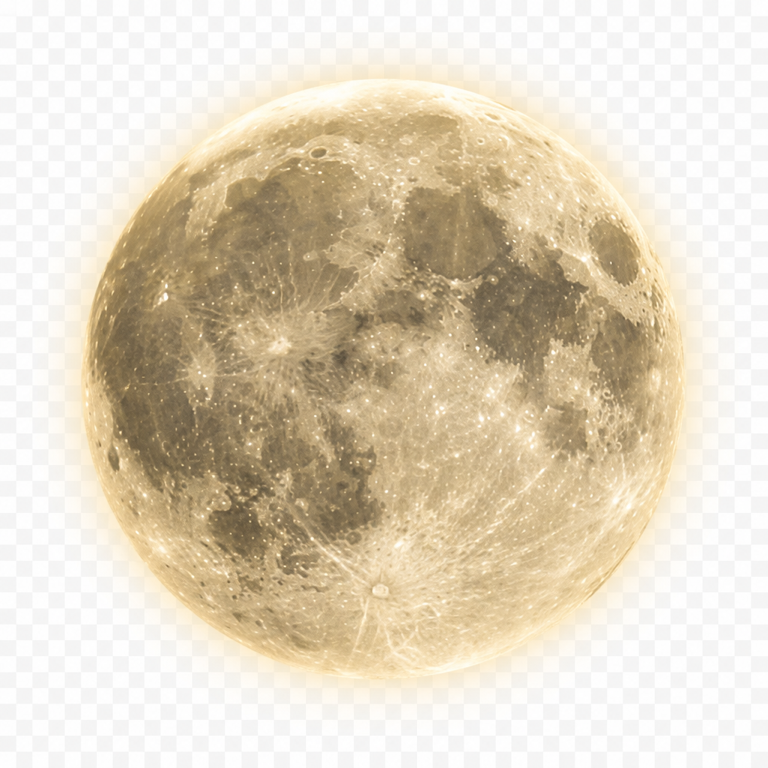
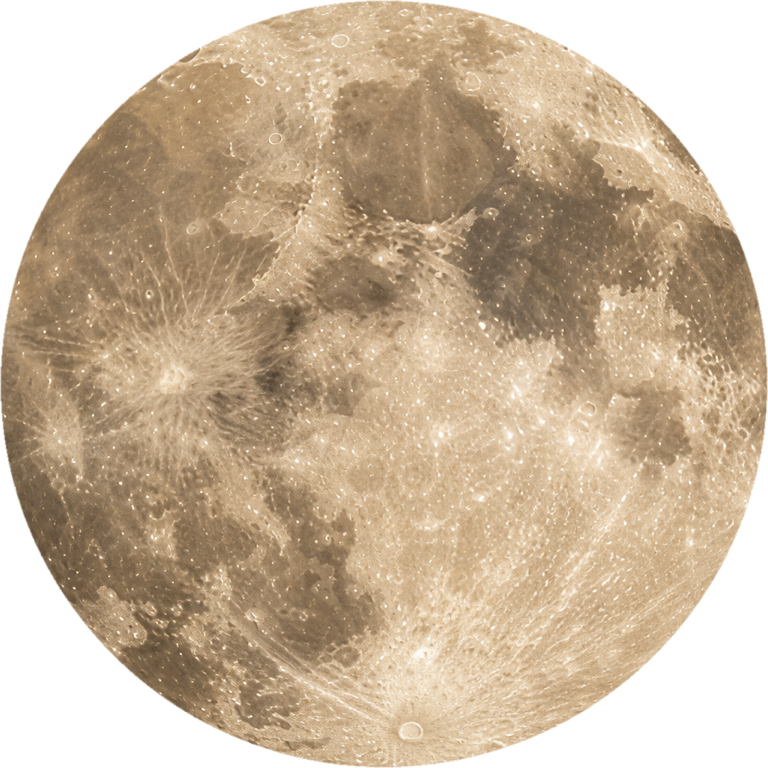
Fix moon asset to fill the sky disc.
Replace the checkerboard-padded PNG with a tight circular moon and CSS cover + halo so no empty white ring shows.

diff --git a/src/App.css b/src/App.css
@@ -57,13 +57,17 @@
   width: clamp(7rem, 14vw, 11rem);
   height: clamp(7rem, 14vw, 11rem);
   border-radius: 50%;
-  background:
-    url('/moon.png') center / contain no-repeat;
+  overflow: hidden;
+  background-color: transparent;
+  background-image: url('/moon.png');
+  background-position: center;
+  background-size: cover;
+  background-repeat: no-repeat;
+  /* Soft halo only in CSS — not baked into the PNG */
   box-shadow:
-    0 0 36px 14px rgba(245, 220, 170, 0.2),
-    0 0 90px 36px rgba(232, 190, 120, 0.1);
-  opacity: 0.92;
-  filter: drop-shadow(0 0 18px rgba(245, 220, 170, 0.35));
+    0 0 28px 8px rgba(245, 220, 170, 0.28),
+    0 0 72px 24px rgba(232, 190, 120, 0.14);
+  opacity: 0.95;
 }
 
 @keyframes twinkle {
